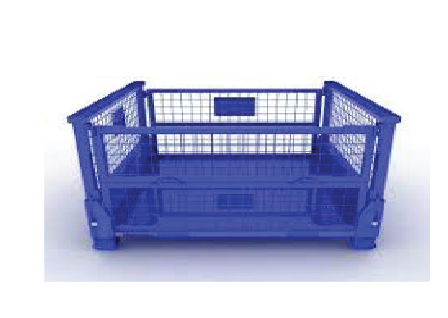
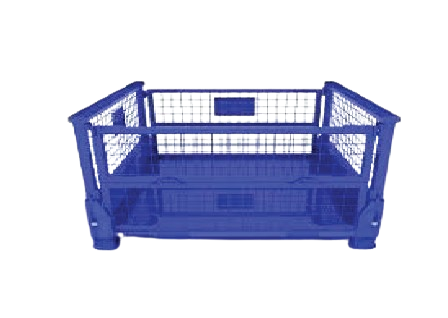
packaging done

diff --git a/src/assets/images/index.js b/src/assets/images/index.js
@@ -136,7 +136,7 @@ import wireMeshImage4 from "@/assets/images/packaging/wire-mesh-image-3.png";
 import wireMeshImage3 from "@/assets/images/packaging/cfgb-10.png";
 
 import metalFoldableCratesImage1 from "@/assets/images/packaging/wire-mesh-image-4.png";
-import metalFoldableCratesImage2 from "@/assets/images/packaging/tfc-10.png";
+import metalFoldableCratesImage2 from "@/assets/images/packaging/GFVB.png";
 import metalFoldableCratesImage3 from "@/assets/images/packaging/download__13_-removebg-preview.png";
 import metalFoldableCratesImage4 from "@/assets/images/packaging/werf-10.png";
 
